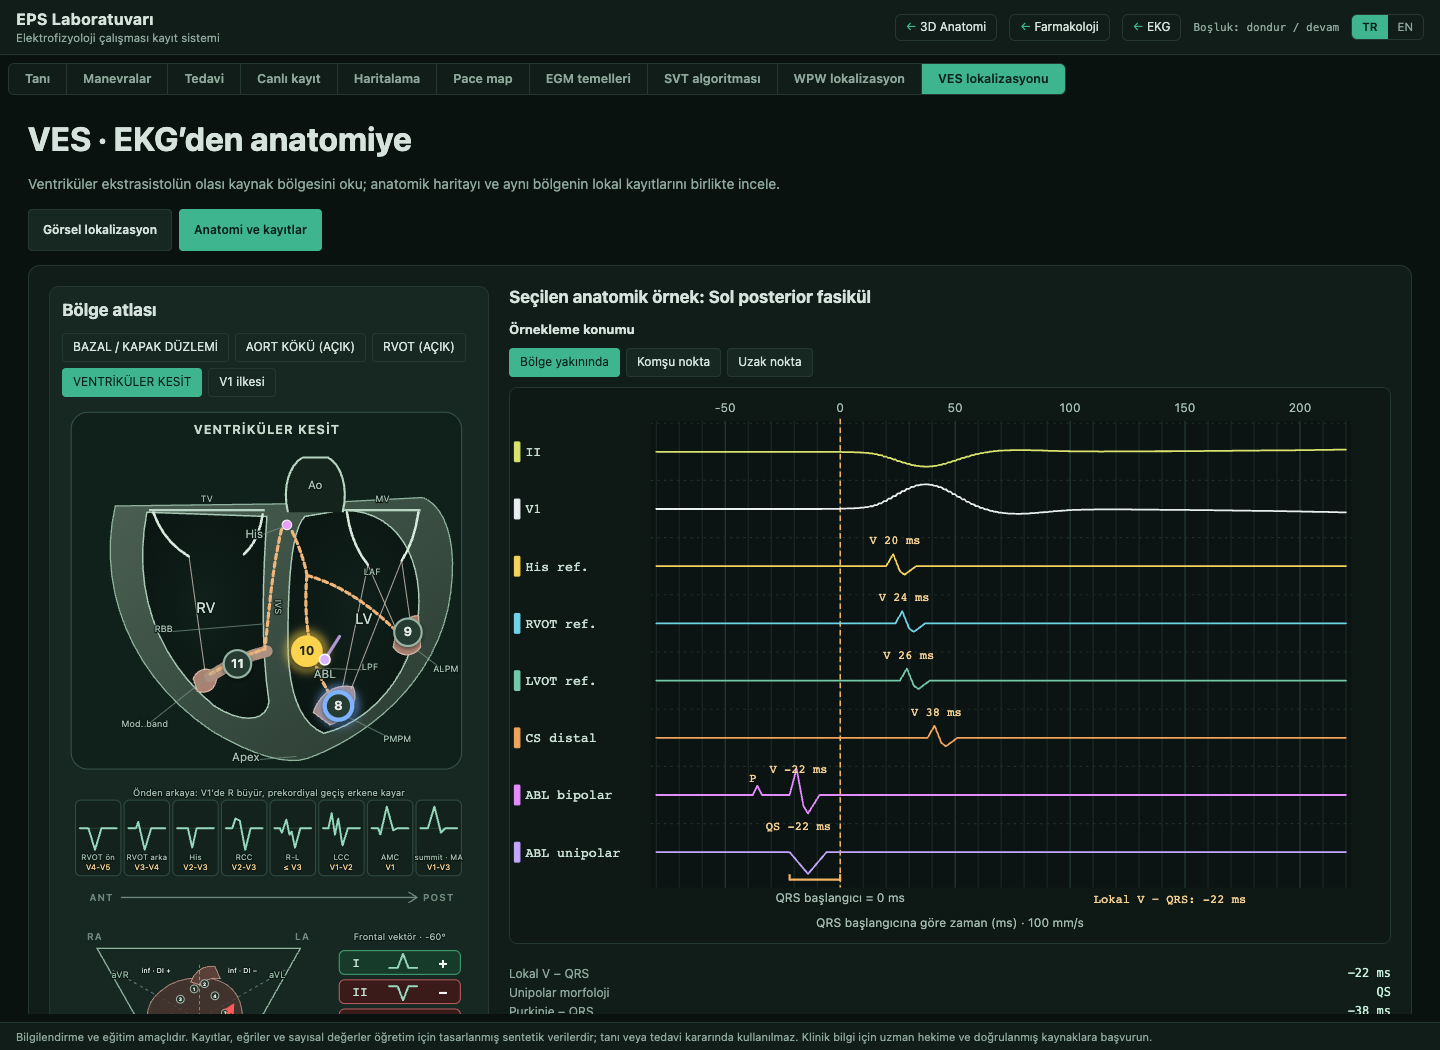
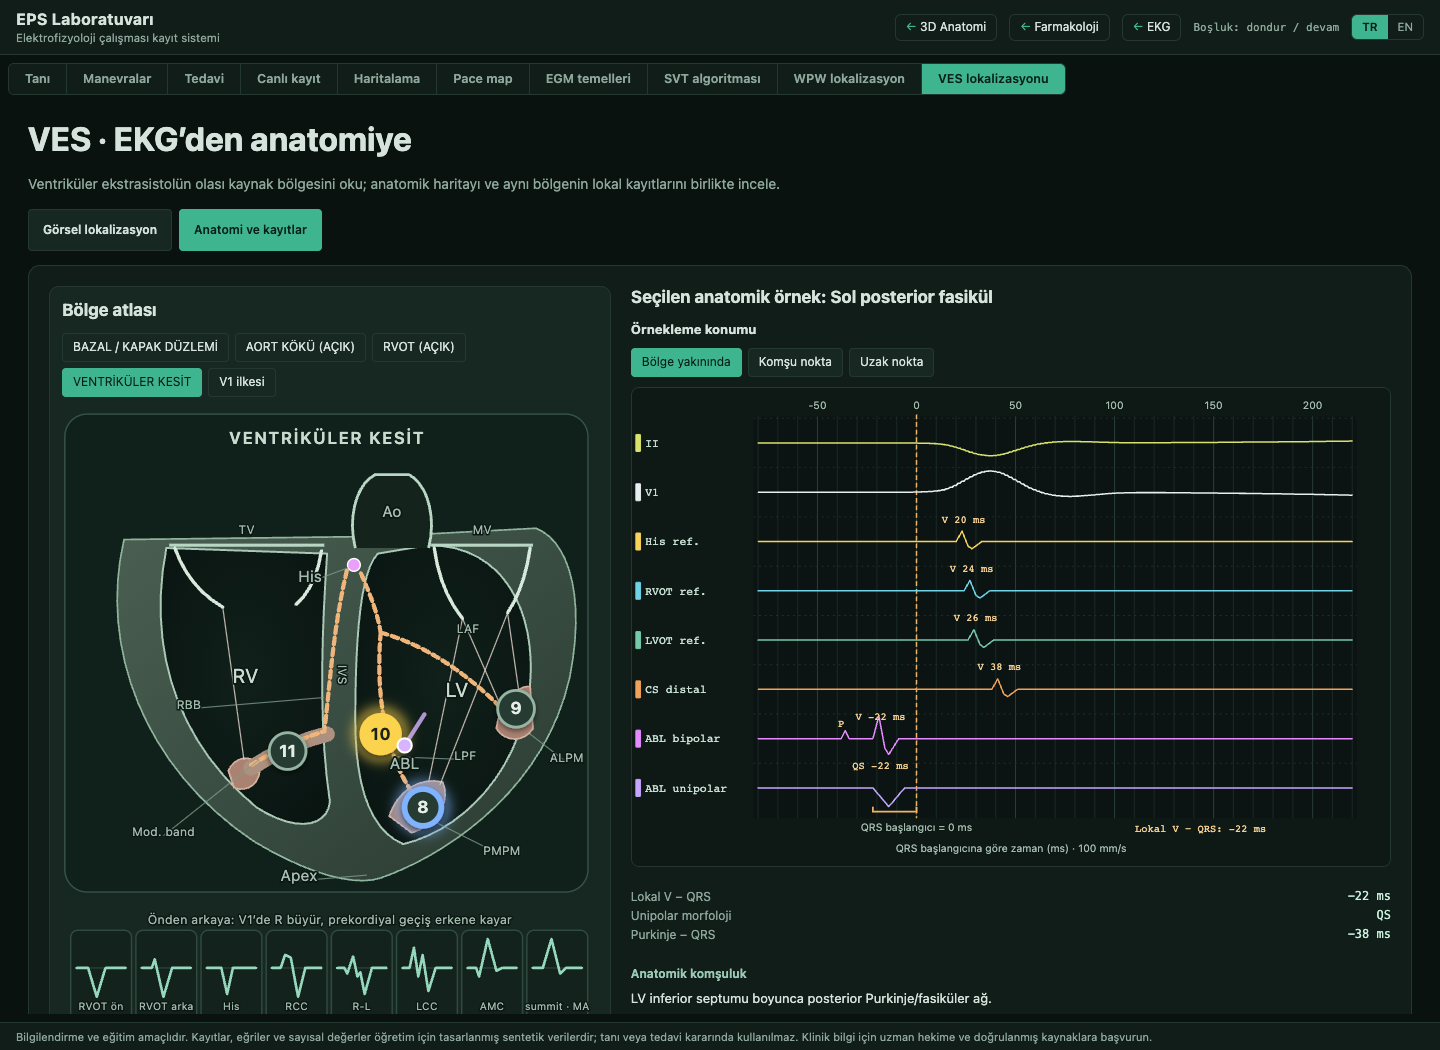
fix(eps): balance VES findings and atlas widths
The finding buttons stretched across the left column while the atlas
stayed narrow. Option buttons are now 92-136 px with smaller wave
glyphs; the atlas column takes about 45% of the page (and the
recordings page's atlas about 42%); map, V1 strip and frontal panel
share one size, min(100%, 560px, 68vh). Duplicate map width rule
removed.

diff --git a/src/eps/ves-loc.css b/src/eps/ves-loc.css
@@ -3,19 +3,21 @@
 .ves > .amap-note { margin: 0; max-width: 900px; font-size: 14px; line-height: 1.6; }
 .ves-page { padding: 20px; border-radius: 12px; display: grid; gap: 16px; min-width: 0; }
 .ves h4 { margin: 0; font-size: 17px; }
-.ves-localize-layout { display: grid; grid-template-columns: minmax(300px, 1fr) minmax(0, 440px); gap: 20px; align-items: start; }
+/* Findings and atlas share the page; the atlas drawings share one size so map, V1 strip and frontal panel line up. */
+.ves { --ves-atlas-w: min(100%, 560px, 68vh); }
+.ves-localize-layout { display: grid; grid-template-columns: minmax(300px, 1.1fr) minmax(340px, .9fr); gap: 20px; align-items: start; }
 .ves-findings { display: grid; gap: 10px; min-width: 0; }
 .ves-finding { padding: 10px; border: 1px solid var(--line); border-left: 3px solid var(--line); border-radius: 7px; display: grid; gap: 7px; }
 .ves-finding[data-next=true] { border-left-color: #fcd34d; }
 .ves-finding[data-required=false] { opacity: .55; }
-.ves-options { display: grid; grid-template-columns: repeat(auto-fit, minmax(95px, 1fr)); gap: 6px; }
-.ves-options button { display: flex; flex-direction: column; align-items: center; padding: 6px; min-height: 44px; line-height: 1.35; }
-.ves-option-wave { width: 100%; max-width: 95px; height: 50px; }
+.ves-options { display: grid; grid-template-columns: repeat(auto-fill, minmax(92px, 136px)); gap: 6px; }
+.ves-options button { display: flex; flex-direction: column; align-items: center; padding: 4px 6px; min-height: 44px; line-height: 1.3; font-size: 12px; }
+.ves-option-wave { width: 100%; max-width: 72px; height: 32px; }
 .ves button[aria-pressed=true] .ves-trace { stroke: #173e2a; }
 .ves-atlas { display: grid; gap: 10px; padding: 12px; background: var(--panel-2); border: 1px solid var(--line); border-radius: 10px; min-width: 0; }
 .ves-map, .ves-ecg, .ves-monitor { display: block; width: 100%; min-width: 0; height: auto; }
 /* The atlas follows the column but never outgrows the reading area; it stays in view while the findings scroll. */
-.ves-map { width: min(100%, 400px, 56vh); margin-inline: auto; }
+.ves-map { width: var(--ves-atlas-w); margin-inline: auto; }
 .ves-localize-layout > .ves-atlas { position: sticky; top: 0; }
 .ves-ecg, .ves-monitor { background: #0e1815; border: 1px solid var(--line); border-radius: 8px; }
 .ves-ecg { background: #1a1416; }
@@ -85,7 +87,7 @@
 .ves-map-lead-pos { fill: #1f5a40; stroke: #6fd3a5; stroke-width: 1; }
 .ves-map-lead-neg { fill: #5a2a2a; stroke: #e39b9b; stroke-width: 1; }
 .ves-map-lead-tag { fill: #f1f7f3; stroke: none; font-weight: 600; }
-.ves-v1-gradient { display: block; width: min(100%, 400px, 56vh); margin-inline: auto; height: auto; }
+.ves-v1-gradient { display: block; width: var(--ves-atlas-w); margin-inline: auto; height: auto; }
 .ves-v1-card { fill: #13221c; stroke: #2f4a3e; }
 [data-active=true] .ves-v1-card { fill: #3a3416; stroke: #fcd34d; stroke-width: 2; }
 .ves-v1-trace { stroke-width: 2; }
@@ -104,7 +106,7 @@
 .ves-v1-star { fill: #f39ab6; stroke: #fff; stroke-width: 1; }
 .ves-v1-glyph-bg { fill: #0c1713; stroke: #2f4a3e; opacity: .92; }
 .ves-v1-glyph { fill: none; stroke-width: 1.8; stroke-linejoin: round; }
-.ves-frontal { display: block; width: min(100%, 400px, 56vh); margin-inline: auto; height: auto; }
+.ves-frontal { display: block; width: var(--ves-atlas-w); margin-inline: auto; height: auto; }
 .ves-frontal-triangle { fill: none; stroke: #8fb39d; stroke-width: 1.2; }
 .ves-frontal-heart { fill: #4a3530; stroke: #c99a88; stroke-width: 1.2; opacity: .8; }
 .ves-frontal-rvot { fill: #5a4038; stroke: #c99a88; stroke-width: 1; }
@@ -138,7 +140,6 @@
 .ves-atlas { display: grid; gap: 10px; padding: 12px; background: var(--panel-2); border: 1px solid var(--line); border-radius: 10px; min-width: 0; }
 .ves-map, .ves-ecg, .ves-monitor { display: block; width: 100%; min-width: 0; height: auto; }
 /* The atlas follows the column but never outgrows the reading area; it stays in view while the findings scroll. */
-.ves-map { width: min(100%, 400px, 56vh); margin-inline: auto; }
 .ves-localize-layout > .ves-atlas { position: sticky; top: 0; }
 .ves-ecg, .ves-monitor { background: #0e1815; border: 1px solid var(--line); border-radius: 8px; }
 .ves-ecg { background: #1a1416; }
@@ -211,7 +212,7 @@
 .ves-amplitudes .amap-field { text-transform: none; letter-spacing: normal; }
 .ves-amplitudes input { width: 100%; min-width: 0; background: var(--panel-2); border: 1px solid var(--line); border-radius: 4px; padding: 6px; }
 .ves-scar { display: flex; gap: 8px; align-items: center; }
-.ves-record-layout { display: grid; grid-template-columns: minmax(300px, 440px) minmax(0, 1fr); gap: 20px; align-items: start; }
+.ves-record-layout { display: grid; grid-template-columns: minmax(320px, .85fr) minmax(0, 1.15fr); gap: 20px; align-items: start; }
 .ves-anatomy { display: grid; gap: 5px; margin: 0; }
 .ves-anatomy dt { color: #9bcab4; font-size: 12px; font-weight: 600; }
 .ves-anatomy dd { margin: 0 0 8px; font-size: 13px; line-height: 1.55; }
